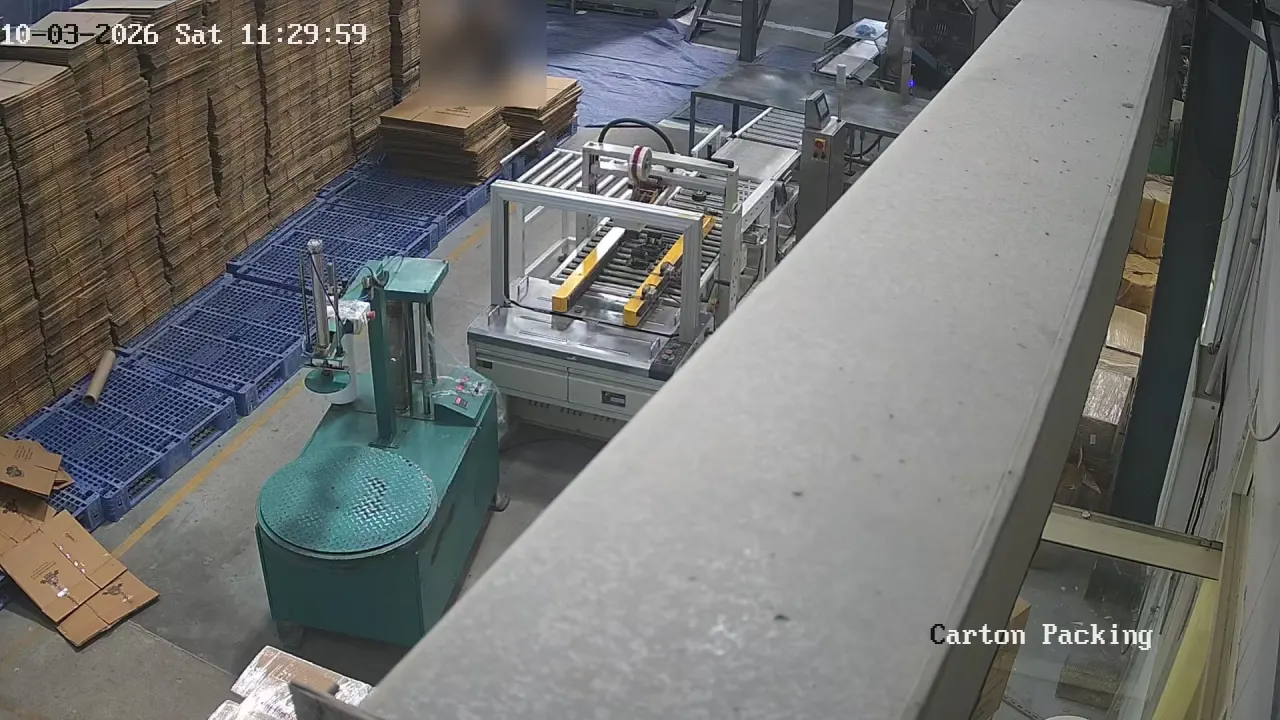
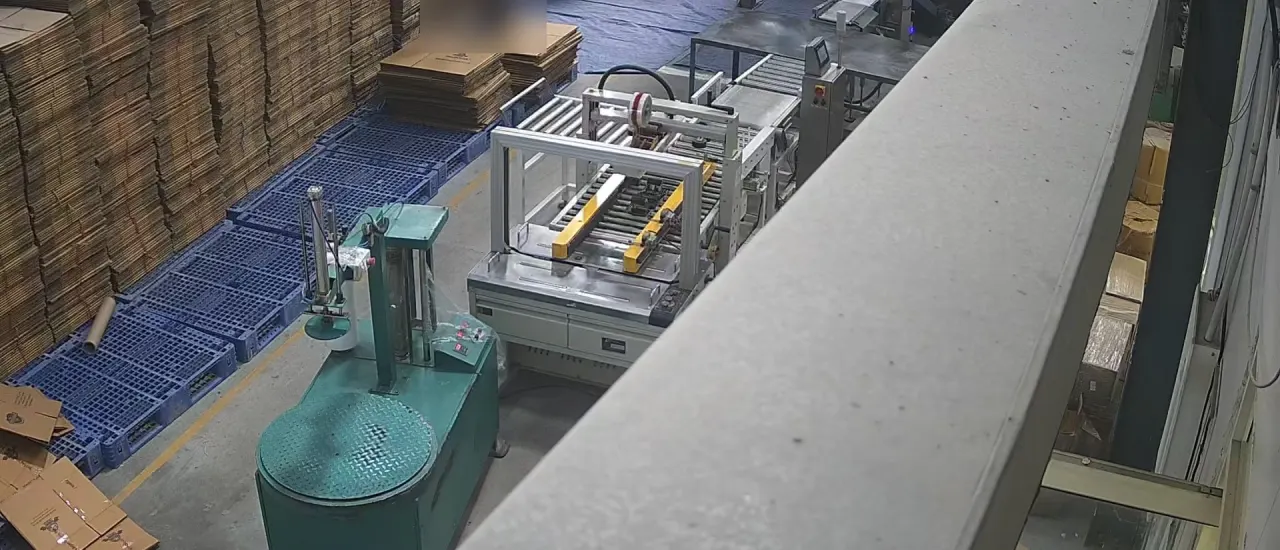
Healthfields: drop client camera names and sack results; trim log and news
- Captions, alt text and file names no longer use client-internal camera names;
  burned-in camera labels and timestamps cropped out of the photos, extra plates blurred
- Sack results removed from the case study, home band, posts and partner pages
- Progress log: removed the on-site install and review-step entries
- News: media kit removed
- check.py now blocks client camera/area names, and sacks outside the home page

diff --git a/case-studies/healthfields/index.html b/case-studies/healthfields/index.html
@@ -4,20 +4,20 @@
 <meta charset="UTF-8">
 <meta name="viewport" content="width=device-width, initial-scale=1.0">
 <title>Healthfields Case Study: Warehouse Counting with Computer Vision | VisorVolt</title>
-<meta name="description" content="Live case study: Healthfields counts cartons and sacks on its existing cameras with VisorVolt, on site with no internet. Cartons -1% on a held-out day.">
+<meta name="description" content="Live case study: Healthfields counts cartons on its existing cameras with VisorVolt, on site with no internet. Cartons within 1% on a held-out day.">
 <link rel="canonical" href="https://visorvolt.ai/case-studies/healthfields/">
 <meta property="og:type" content="article">
 <meta property="og:site_name" content="VisorVolt">
 <meta property="og:url" content="https://visorvolt.ai/case-studies/healthfields/">
 <meta property="og:title" content="Healthfields Case Study: Warehouse Counting with Computer Vision | VisorVolt">
-<meta property="og:description" content="Live case study: Healthfields counts cartons and sacks on its existing cameras with VisorVolt, on site with no internet. Cartons -1% on a held-out day.">
+<meta property="og:description" content="Live case study: Healthfields counts cartons on its existing cameras with VisorVolt, on site with no internet. Cartons within 1% on a held-out day.">
 <meta property="og:image" content="https://visorvolt.ai/assets/og/healthfields.jpg">
 <meta property="og:image:width" content="1200">
 <meta property="og:image:height" content="630">
-<meta property="og:image:alt" content="Healthfields case study: cartons and sacks counted on existing cameras">
+<meta property="og:image:alt" content="Healthfields case study: cartons counted on existing cameras">
 <meta name="twitter:card" content="summary_large_image">
 <meta name="twitter:title" content="Healthfields Case Study: Warehouse Counting with Computer Vision | VisorVolt">
-<meta name="twitter:description" content="Live case study: Healthfields counts cartons and sacks on its existing cameras with VisorVolt, on site with no internet. Cartons -1% on a held-out day.">
+<meta name="twitter:description" content="Live case study: Healthfields counts cartons on its existing cameras with VisorVolt, on site with no internet. Cartons within 1% on a held-out day.">
 <meta name="twitter:image" content="https://visorvolt.ai/assets/og/healthfields.jpg">
 <link rel="icon" type="image/svg+xml" href="../../favicon.svg">
 <link rel="icon" type="image/png" sizes="32x32" href="../../favicon_32.png">
@@ -42,7 +42,7 @@
    "@id": "https://visorvolt.ai/case-studies/healthfields/#article",
    "url": "https://visorvolt.ai/case-studies/healthfields/",
    "mainEntityOfPage": "https://visorvolt.ai/case-studies/healthfields/",
-   "headline": "Healthfields counts cartons and sacks on the cameras it already had",
+   "headline": "Healthfields counts cartons on the cameras it already had",
    "image": [
     "https://visorvolt.ai/assets/og/healthfields.jpg"
    ],
@@ -129,13 +129,13 @@
 <header class="page-head">
   <span class="logo-plate logo-plate--text">Healthfields</span>
   <div class="eyebrow">// Live case study</div>
-  <h1>Healthfields counts cartons and sacks on the cameras it already had</h1>
+  <h1>Healthfields counts cartons on the cameras it already had</h1>
   <p class="page-meta"><span class="live-dot" aria-hidden="true"></span>Live since October 2026 <span aria-hidden="true">&middot;</span> Last updated <time datetime="2026-10-26">26 October 2026</time></p>
   <p class="page-lede">Healthfields makes and sells organic staples, with more than 600 products. At its site in Greater Noida, VisorVolt counts what arrives and what leaves on the existing CCTV cameras, and writes the counts into the warehouse system. It all runs on one computer on site, with no internet needed.</p>
 </header>
 
-<div class="tiles"><div class="tile"><div class="tile-fig">&minus;1%</div><div class="tile-label">Cartons, held-out day</div><p class="tile-def">102 counted against 103 by a person counting each carton, on a day the model never saw.</p></div><div class="tile"><div class="tile-fig">91% / 93%</div><div class="tile-label">Sacks found / counts correct</div><p class="tile-def">On held-out minutes a person counted: 91% of sacks found, and 93% of counts correct.</p></div><div class="tile"><div class="tile-fig">7/7</div><div class="tile-label">Packing counts exact</div><p class="tile-def">Exact on 7 of 7 hand-counted windows at the carton sealer, which handles about 450 items a day.</p></div><div class="tile"><div class="tile-fig">1.00</div><div class="tile-label">Truck arrivals caught</div><p class="tile-def">Share of truck arrivals the bay trigger caught. It was trained from about 40 frames.</p></div></div>
-<p class="small">Held-out means tested on days or minutes the models never saw. How we measured is <a href="#measured">below</a>.</p>
+<div class="tiles"><div class="tile"><div class="tile-fig">&minus;1%</div><div class="tile-label">Cartons, held-out day</div><p class="tile-def">102 counted against 103 by a person counting each carton, on a day the model never saw.</p></div><div class="tile"><div class="tile-fig">7/7</div><div class="tile-label">Packing counts exact</div><p class="tile-def">Exact on 7 of 7 hand-counted windows at the carton sealer, which handles about 450 items a day.</p></div><div class="tile"><div class="tile-fig">1.00</div><div class="tile-label">Truck arrivals caught</div><p class="tile-def">Share of truck arrivals the bay trigger caught. It was trained from about 40 frames.</p></div></div>
+<p class="small">Held-out means tested on days the models never saw. How we measured is <a href="#measured">below</a>.</p>
 
 <dl class="facts">
   <div><dt>Company</dt><dd>Healthfields (Brahhm Arpan Organic Private Limited)</dd></div>
@@ -150,7 +150,7 @@
 
 <section class="page-sec">
   <h2>The challenge</h2>
-  <p>Stock moves through many doors. Raw material arrives by truck in sacks and cartons, finished goods are packed into cartons, and dispatch loads them onto trucks. Counting by hand is slow, and every count has to agree with the barcode scans and the registers.</p>
+  <p>Stock moves through many doors. Goods arrive by truck, finished goods are packed into cartons, and dispatch loads them onto trucks. Counting by hand is slow, and every count has to agree with the barcode scans and the registers.</p>
   <p>Healthfields wanted counts it could trust, from the cameras it already owned, without sending its footage off site.</p>
 </section>
 
@@ -159,33 +159,31 @@
   <ul class="ticks">
     <li><strong>Truck triggers.</strong> A camera spots a truck at the bay and starts the count. The trigger was trained from about 40 frames.</li>
     <li><strong>Carton counter.</strong> A detector built from 40 labelled images, with a tracker, counts each carton loaded at dispatch.</li>
-    <li><strong>Sack counter.</strong> Counts sacks as they come off the truck at unloading.</li>
     <li><strong>Packing counter.</strong> Counts every carton that passes the sealer on the packing line.</li>
     <li><strong>Into the warehouse system.</strong> Counts are written into the warehouse system. Mismatches go to review with the video clip, and camera counts and barcode scans are reconciled every day into one stock position.</li>
   </ul>
   <p>Five services and four nightly reports run on one computer on site, and keep running with no internet.</p>
   <div class="figs">
     <figure>
-      <picture><source type="image/webp" srcset="../../assets/case-studies/healthfields/rm1-640.webp 640w, ../../assets/case-studies/healthfields/rm1-1280.webp 1280w" sizes="(max-width: 900px) 100vw, 33vw"><img src="../../assets/case-studies/healthfields/rm1-1280.jpg" width="1280" height="720" loading="lazy" decoding="async" alt="Cartons arriving on a hand trolley at the Raw Material unloading 1 dock, with a truck behind. Faces are blurred."></picture>
-      <figcaption>Raw Material unloading 1: cartons arriving at the dock.</figcaption>
+      <picture><source type="image/webp" srcset="../../assets/case-studies/healthfields/unloading-640.webp 640w, ../../assets/case-studies/healthfields/unloading-1280.webp 1280w" sizes="(max-width: 900px) 100vw, 33vw"><img src="../../assets/case-studies/healthfields/unloading-1280.jpg" width="1280" height="550" loading="lazy" decoding="async" alt="Cartons arriving on a hand trolley at the unloading dock, with a truck behind. Faces are blurred."></picture>
+      <figcaption>Unloading: cartons arriving at the dock.</figcaption>
     </figure>
     <figure>
-      <picture><source type="image/webp" srcset="../../assets/case-studies/healthfields/csd-640.webp 640w, ../../assets/case-studies/healthfields/csd-1280.webp 1280w" sizes="(max-width: 900px) 100vw, 33vw"><img src="../../assets/case-studies/healthfields/csd-1280.jpg" width="1280" height="614" loading="lazy" decoding="async" alt="Inside a truck at dispatch, a carton carried by a worker is boxed and numbered by the carton counter. Faces and the number plate are blurred."></picture>
-      <figcaption>Loading 1 CSD: the carton counter tracks each carton loaded at dispatch.</figcaption>
+      <picture><source type="image/webp" srcset="../../assets/case-studies/healthfields/dispatch-640.webp 640w, ../../assets/case-studies/healthfields/dispatch-1280.webp 1280w" sizes="(max-width: 900px) 100vw, 33vw"><img src="../../assets/case-studies/healthfields/dispatch-1280.jpg" width="1280" height="530" loading="lazy" decoding="async" alt="Inside a truck at dispatch, a carton carried by a worker is boxed and numbered by the carton counter. Faces and the number plate are blurred."></picture>
+      <figcaption>Dispatch: the carton counter tracks each carton loaded onto the truck.</figcaption>
     </figure>
     <figure>
-      <picture><source type="image/webp" srcset="../../assets/case-studies/healthfields/packing-640.webp 640w, ../../assets/case-studies/healthfields/packing-1280.webp 1280w" sizes="(max-width: 900px) 100vw, 33vw"><img src="../../assets/case-studies/healthfields/packing-1280.jpg" width="1280" height="720" loading="lazy" decoding="async" alt="The carton packing line seen from above: a carton sealer, a stretch wrapper and stacks of flat carton blanks. Faces are blurred."></picture>
-      <figcaption>Carton Packing: every packed carton passes the sealer.</figcaption>
+      <picture><source type="image/webp" srcset="../../assets/case-studies/healthfields/packing-640.webp 640w, ../../assets/case-studies/healthfields/packing-1280.webp 1280w" sizes="(max-width: 900px) 100vw, 33vw"><img src="../../assets/case-studies/healthfields/packing-1280.jpg" width="1280" height="550" loading="lazy" decoding="async" alt="The packing line seen from above: a carton sealer, a stretch wrapper and stacks of flat carton blanks. Faces are blurred."></picture>
+      <figcaption>Packing line: every packed carton passes the sealer.</figcaption>
     </figure>
   </div>
 </section>
 
 <section class="page-sec" id="measured">
   <h2>What we measured</h2>
-  <p>Every number here was measured on days or minutes the models never saw, against a person&rsquo;s own count.</p>
+  <p>Every number here was measured on days the models never saw, against a person&rsquo;s own count.</p>
   <ul class="ticks">
     <li><strong>Cartons, &minus;1%.</strong> A person counted each carton loaded on a dispatch truck on a held-out day. The counter said 102; the person counted 103.</li>
-    <li><strong>Sacks, 91% / 93%.</strong> On held-out minutes a person counted, the counter found 91% of the sacks, and 93% of what it counted was a real sack.</li>
     <li><strong>Packing, 7/7.</strong> Exact on all 7 hand-counted windows at the carton sealer, which handles about 450 items a day.</li>
     <li><strong>Truck arrivals, 1.00.</strong> The bay trigger caught every truck arrival in the test, from about 40 training frames.</li>
   </ul>
@@ -195,7 +193,7 @@
 <section class="page-sec">
   <h2>Progress log</h2>
   <p>The deployment is live and changes every week. Newest first.</p>
-  <ol class="log" reversed><li class="log-entry"><time class="log-date" datetime="2026-10-26">Week of 26 October 2026</time><div class="log-body"><p><span class="log-k">What we did</span> Published this case study with the measurements so far.</p><p><span class="log-k">What&rsquo;s next</span> Check carton counts against the dispatch register, day by day.</p></div></li><li class="log-entry"><time class="log-date" datetime="2026-10-19">Week of 19 October 2026</time><div class="log-body"><p><span class="log-k">What we did</span> Added a review step for raw-material trucks: each truck&rsquo;s count goes to a person, with its video clip, before it reaches the warehouse system.</p><p><span class="log-k">What&rsquo;s next</span> Test the step on the next three trucks that arrive with a goods receipt.</p></div></li><li class="log-entry"><time class="log-date" datetime="2026-10-12">Week of 12 October 2026</time><div class="log-body"><p><span class="log-k">What we did</span> Tested the counters on days and minutes they never saw.</p><p><span class="log-k">What we measured</span> Cartons: 102 counted against 103 by a person (&minus;1%). Sacks: 91% found and 93% of counts correct.</p><p><span class="log-k">What&rsquo;s next</span> Keep the sack counter current as trucks and light change.</p></div></li><li class="log-entry"><time class="log-date" datetime="2026-10-05">Week of 5 October 2026</time><div class="log-body"><p><span class="log-k">What we did</span> Truck-arrival trigger went live at the unloading dock, and the packing counter went live at the carton sealer. A person counted every carton on one dispatch truck, so the carton counter could be tested on a day it never saw.</p><p><span class="log-k">What&rsquo;s next</span> Measure each counter against a person&rsquo;s count.</p></div></li><li class="log-entry"><time class="log-date" datetime="2026-09-28">Week of 28 September 2026</time><div class="log-body"><p><span class="log-k">What we did</span> Installed the computer on site and connected it to the existing cameras. Counted the first unloading truck from recorded footage.</p><p><span class="log-k">What&rsquo;s next</span> Counters for cartons, sacks and packing.</p></div></li></ol>
+  <ol class="log" reversed><li class="log-entry"><time class="log-date" datetime="2026-10-26">Week of 26 October 2026</time><div class="log-body"><p><span class="log-k">What we did</span> Published this case study with the measurements so far.</p><p><span class="log-k">What&rsquo;s next</span> Add the dispatch-register checks to this log as they finish.</p></div></li><li class="log-entry"><time class="log-date" datetime="2026-10-12">Week of 12 October 2026</time><div class="log-body"><p><span class="log-k">What we did</span> Tested the carton counter on a day it never saw.</p><p><span class="log-k">What we measured</span> 102 cartons counted against 103 by a person counting each one (&minus;1%).</p><p><span class="log-k">What&rsquo;s next</span> Check carton counts against the dispatch register, day by day.</p></div></li><li class="log-entry"><time class="log-date" datetime="2026-10-05">Week of 5 October 2026</time><div class="log-body"><p><span class="log-k">What we did</span> Truck-arrival trigger went live at the unloading dock, and the packing counter went live at the carton sealer. A person counted every carton on one dispatch truck, so the carton counter could be tested on a day it never saw.</p><p><span class="log-k">What&rsquo;s next</span> Measure each counter against a person&rsquo;s count.</p></div></li></ol>
 </section>
 
 <section class="page-sec">

diff --git a/_build/pages/healthfields.html b/_build/pages/healthfields.html
@@ -1,13 +1,13 @@
 <header class="page-head">
   {{hf_logo}}
   <div class="eyebrow">// Live case study</div>
-  <h1>Healthfields counts cartons and sacks on the cameras it already had</h1>
+  <h1>Healthfields counts cartons on the cameras it already had</h1>
   <p class="page-meta"><span class="live-dot" aria-hidden="true"></span>Live since {{hf_since}} <span aria-hidden="true">&middot;</span> Last updated {{hf_last}}</p>
   <p class="page-lede">Healthfields makes and sells organic staples, with more than 600 products. At its site in Greater Noida, VisorVolt counts what arrives and what leaves on the existing CCTV cameras, and writes the counts into the warehouse system. It all runs on one computer on site, with no internet needed.</p>
 </header>
 
 {{hf_tiles}}
-<p class="small">Held-out means tested on days or minutes the models never saw. How we measured is <a href="#measured">below</a>.</p>
+<p class="small">Held-out means tested on days the models never saw. How we measured is <a href="#measured">below</a>.</p>
 
 <dl class="facts">
   <div><dt>Company</dt><dd>Healthfields (Brahhm Arpan Organic Private Limited)</dd></div>
@@ -22,7 +22,7 @@
 
 <section class="page-sec">
   <h2>The challenge</h2>
-  <p>Stock moves through many doors. Raw material arrives by truck in sacks and cartons, finished goods are packed into cartons, and dispatch loads them onto trucks. Counting by hand is slow, and every count has to agree with the barcode scans and the registers.</p>
+  <p>Stock moves through many doors. Goods arrive by truck, finished goods are packed into cartons, and dispatch loads them onto trucks. Counting by hand is slow, and every count has to agree with the barcode scans and the registers.</p>
   <p>Healthfields wanted counts it could trust, from the cameras it already owned, without sending its footage off site.</p>
 </section>
 
@@ -31,33 +31,31 @@
   <ul class="ticks">
     <li><strong>Truck triggers.</strong> A camera spots a truck at the bay and starts the count. The trigger was trained from about 40 frames.</li>
     <li><strong>Carton counter.</strong> A detector built from 40 labelled images, with a tracker, counts each carton loaded at dispatch.</li>
-    <li><strong>Sack counter.</strong> Counts sacks as they come off the truck at unloading.</li>
     <li><strong>Packing counter.</strong> Counts every carton that passes the sealer on the packing line.</li>
     <li><strong>Into the warehouse system.</strong> Counts are written into the warehouse system. Mismatches go to review with the video clip, and camera counts and barcode scans are reconciled every day into one stock position.</li>
   </ul>
   <p>Five services and four nightly reports run on one computer on site, and keep running with no internet.</p>
   <div class="figs">
     <figure>
-      <picture><source type="image/webp" srcset="{{url:assets/case-studies/healthfields/rm1-640.webp}} 640w, {{url:assets/case-studies/healthfields/rm1-1280.webp}} 1280w" sizes="(max-width: 900px) 100vw, 33vw"><img src="{{url:assets/case-studies/healthfields/rm1-1280.jpg}}" width="1280" height="720" loading="lazy" decoding="async" alt="Cartons arriving on a hand trolley at the Raw Material unloading 1 dock, with a truck behind. Faces are blurred."></picture>
-      <figcaption>Raw Material unloading 1: cartons arriving at the dock.</figcaption>
+      <picture><source type="image/webp" srcset="{{url:assets/case-studies/healthfields/unloading-640.webp}} 640w, {{url:assets/case-studies/healthfields/unloading-1280.webp}} 1280w" sizes="(max-width: 900px) 100vw, 33vw"><img src="{{url:assets/case-studies/healthfields/unloading-1280.jpg}}" width="1280" height="550" loading="lazy" decoding="async" alt="Cartons arriving on a hand trolley at the unloading dock, with a truck behind. Faces are blurred."></picture>
+      <figcaption>Unloading: cartons arriving at the dock.</figcaption>
     </figure>
     <figure>
-      <picture><source type="image/webp" srcset="{{url:assets/case-studies/healthfields/csd-640.webp}} 640w, {{url:assets/case-studies/healthfields/csd-1280.webp}} 1280w" sizes="(max-width: 900px) 100vw, 33vw"><img src="{{url:assets/case-studies/healthfields/csd-1280.jpg}}" width="1280" height="614" loading="lazy" decoding="async" alt="Inside a truck at dispatch, a carton carried by a worker is boxed and numbered by the carton counter. Faces and the number plate are blurred."></picture>
-      <figcaption>Loading 1 CSD: the carton counter tracks each carton loaded at dispatch.</figcaption>
+      <picture><source type="image/webp" srcset="{{url:assets/case-studies/healthfields/dispatch-640.webp}} 640w, {{url:assets/case-studies/healthfields/dispatch-1280.webp}} 1280w" sizes="(max-width: 900px) 100vw, 33vw"><img src="{{url:assets/case-studies/healthfields/dispatch-1280.jpg}}" width="1280" height="530" loading="lazy" decoding="async" alt="Inside a truck at dispatch, a carton carried by a worker is boxed and numbered by the carton counter. Faces and the number plate are blurred."></picture>
+      <figcaption>Dispatch: the carton counter tracks each carton loaded onto the truck.</figcaption>
     </figure>
     <figure>
-      <picture><source type="image/webp" srcset="{{url:assets/case-studies/healthfields/packing-640.webp}} 640w, {{url:assets/case-studies/healthfields/packing-1280.webp}} 1280w" sizes="(max-width: 900px) 100vw, 33vw"><img src="{{url:assets/case-studies/healthfields/packing-1280.jpg}}" width="1280" height="720" loading="lazy" decoding="async" alt="The carton packing line seen from above: a carton sealer, a stretch wrapper and stacks of flat carton blanks. Faces are blurred."></picture>
-      <figcaption>Carton Packing: every packed carton passes the sealer.</figcaption>
+      <picture><source type="image/webp" srcset="{{url:assets/case-studies/healthfields/packing-640.webp}} 640w, {{url:assets/case-studies/healthfields/packing-1280.webp}} 1280w" sizes="(max-width: 900px) 100vw, 33vw"><img src="{{url:assets/case-studies/healthfields/packing-1280.jpg}}" width="1280" height="550" loading="lazy" decoding="async" alt="The packing line seen from above: a carton sealer, a stretch wrapper and stacks of flat carton blanks. Faces are blurred."></picture>
+      <figcaption>Packing line: every packed carton passes the sealer.</figcaption>
     </figure>
   </div>
 </section>
 
 <section class="page-sec" id="measured">
   <h2>What we measured</h2>
-  <p>Every number here was measured on days or minutes the models never saw, against a person&rsquo;s own count.</p>
+  <p>Every number here was measured on days the models never saw, against a person&rsquo;s own count.</p>
   <ul class="ticks">
     <li><strong>Cartons, &minus;1%.</strong> A person counted each carton loaded on a dispatch truck on a held-out day. The counter said 102; the person counted 103.</li>
-    <li><strong>Sacks, 91% / 93%.</strong> On held-out minutes a person counted, the counter found 91% of the sacks, and 93% of what it counted was a real sack.</li>
     <li><strong>Packing, 7/7.</strong> Exact on all 7 hand-counted windows at the carton sealer, which handles about 450 items a day.</li>
     <li><strong>Truck arrivals, 1.00.</strong> The bay trigger caught every truck arrival in the test, from about 40 training frames.</li>
   </ul>

diff --git a/news/healthfields-live/index.html b/news/healthfields-live/index.html
@@ -4,20 +4,20 @@
 <meta charset="UTF-8">
 <meta name="viewport" content="width=device-width, initial-scale=1.0">
 <title>Healthfields Is Live in Production With VisorVolt | VisorVolt News</title>
-<meta name="description" content="Healthfields counts cartons, sacks and packing with VisorVolt on its existing cameras, on site with no internet. Read the live case study.">
+<meta name="description" content="Healthfields counts cartons at dispatch and on the packing line with VisorVolt, on its existing cameras and with no internet. Read the live case study.">
 <link rel="canonical" href="https://visorvolt.ai/news/healthfields-live/">
 <meta property="og:type" content="article">
 <meta property="og:site_name" content="VisorVolt">
 <meta property="og:url" content="https://visorvolt.ai/news/healthfields-live/">
 <meta property="og:title" content="Healthfields Is Live in Production With VisorVolt | VisorVolt News">
-<meta property="og:description" content="Healthfields counts cartons, sacks and packing with VisorVolt on its existing cameras, on site with no internet. Read the live case study.">
+<meta property="og:description" content="Healthfields counts cartons at dispatch and on the packing line with VisorVolt, on its existing cameras and with no internet. Read the live case study.">
 <meta property="og:image" content="https://visorvolt.ai/assets/og/healthfields.jpg">
 <meta property="og:image:width" content="1200">
 <meta property="og:image:height" content="630">
-<meta property="og:image:alt" content="Healthfields counts cartons and sacks with VisorVolt, live in production">
+<meta property="og:image:alt" content="Healthfields counts cartons with VisorVolt, live in production">
 <meta name="twitter:card" content="summary_large_image">
 <meta name="twitter:title" content="Healthfields Is Live in Production With VisorVolt | VisorVolt News">
-<meta name="twitter:description" content="Healthfields counts cartons, sacks and packing with VisorVolt on its existing cameras, on site with no internet. Read the live case study.">
+<meta name="twitter:description" content="Healthfields counts cartons at dispatch and on the packing line with VisorVolt, on its existing cameras and with no internet. Read the live case study.">
 <meta name="twitter:image" content="https://visorvolt.ai/assets/og/healthfields.jpg">
 <link rel="icon" type="image/svg+xml" href="../../favicon.svg">
 <link rel="icon" type="image/png" sizes="32x32" href="../../favicon_32.png">
@@ -42,7 +42,7 @@
    "@id": "https://visorvolt.ai/news/healthfields-live/#article",
    "url": "https://visorvolt.ai/news/healthfields-live/",
    "mainEntityOfPage": "https://visorvolt.ai/news/healthfields-live/",
-   "headline": "Healthfields counts cartons and sacks with VisorVolt, live in production",
+   "headline": "Healthfields counts cartons with VisorVolt, live in production",
    "image": [
     "https://visorvolt.ai/assets/og/healthfields.jpg"
    ],
@@ -129,12 +129,12 @@
 <article class="post">
 <header class="page-head">
   <div class="eyebrow">// News &middot; <time datetime="2026-10-26">26 October 2026</time></div>
-  <h1>Healthfields counts cartons and sacks with VisorVolt, live in production</h1>
-  <p class="page-lede">Healthfields counts cartons, sacks and packing on its existing cameras, on site with no internet. The case study is kept up to date.</p>
+  <h1>Healthfields counts cartons with VisorVolt, live in production</h1>
+  <p class="page-lede">Healthfields counts cartons at dispatch and on the packing line with its existing cameras, on site with no internet. The case study is kept up to date.</p>
 </header>
 <div class="post-body">
   <p><strong>Redwood City, CA, 26 October 2026.</strong> Healthfields, a maker of organic staples with more than 600 products, is live in production with VisorVolt at its site in Greater Noida, India. VisorVolt counts what arrives and what leaves on the site&rsquo;s existing CCTV cameras and writes the counts into the warehouse system.</p>
-  <p>Measured on days and minutes the models never saw, the carton counter came within 1% of a person&rsquo;s per-carton count (102 against 103), and the sack counter found 91% of sacks with 93% of its counts correct. Counting and review run on one computer on site, with no internet needed.</p>
+  <p>Measured on a day the model never saw, the carton counter came within 1% of a person&rsquo;s per-carton count (102 against 103), and the packing counter was exact on all 7 hand-counted checks. Counting and review run on one computer on site, with no internet needed.</p>
   <p>&ldquo;Healthfields is the proof we wanted: counting on cameras they already had, with no internet, measured on days the models never saw,&rdquo; said Umang Sharma, founder and CEO of VisorVolt.</p>
   <p>The deployment is still changing every week. Follow it in the <a href="../../case-studies/healthfields/">live case study</a>.</p>
   <h2>About Healthfields</h2>

diff --git a/news/index.html b/news/index.html
@@ -60,7 +60,7 @@
     },
     {
      "@type": "NewsArticle",
-     "headline": "Healthfields counts cartons and sacks with VisorVolt, live in production",
+     "headline": "Healthfields counts cartons with VisorVolt, live in production",
      "url": "https://visorvolt.ai/news/healthfields-live/",
      "datePublished": "2026-10-26"
     }
@@ -124,17 +124,7 @@
   <h1>News</h1>
   <p class="page-lede">Announcements from VisorVolt, newest first.</p>
 </header>
-<ol class="news-list"><li class="news-item"><time datetime="2026-10-26">26 October 2026</time><h2><a href="../news/prolifics-partnership/">VisorVolt and Prolifics sign a systems integrator partnership</a></h2><p>Prolifics, a global systems integrator with 2,000+ experts, will deliver VisorVolt vision AI to its clients, across every industry.</p></li><li class="news-item"><time datetime="2026-10-26">26 October 2026</time><h2><a href="../news/zebra-isv-partner/">VisorVolt becomes a Zebra Technologies Registered ISV</a></h2><p>VisorVolt joined Zebra Technologies&rsquo; PartnerConnect program as a Registered ISV, in North America and Asia-Pacific.</p></li><li class="news-item"><time datetime="2026-10-26">26 October 2026</time><h2><a href="../news/healthfields-live/">Healthfields counts cartons and sacks with VisorVolt, live in production</a></h2><p>Healthfields counts cartons, sacks and packing on its existing cameras, on site with no internet. The case study is kept up to date.</p></li></ol>
-<section class="page-sec media-kit">
-  <h2>Media kit</h2>
-  <ul class="link-list">
-    <li><a href="../favicon.svg">VisorVolt mark (SVG)</a></li>
-    <li><a href="../assets/og-image.png">VisorVolt banner (PNG, 1200&times;630)</a></li>
-    <li><a href="../assets/founder.jpg">Umang Sharma, Founder and CEO (photo)</a></li>
-  </ul>
-  <p><strong>Boilerplate.</strong> VisorVolt builds vision AI that learns a new site from 40 images and keeps improving after it ships. Counting and inspection run on the customer&rsquo;s own hardware with no internet, an improvement agent keeps every model current, and a person approves every change. VisorVolt is based in Redwood City, California.</p>
-  <p>Press: <a href="mailto:umang@visorvolt.ai">umang@visorvolt.ai</a></p>
-</section>
+<ol class="news-list"><li class="news-item"><time datetime="2026-10-26">26 October 2026</time><h2><a href="../news/prolifics-partnership/">VisorVolt and Prolifics sign a systems integrator partnership</a></h2><p>Prolifics, a global systems integrator with 2,000+ experts, will deliver VisorVolt vision AI to its clients, across every industry.</p></li><li class="news-item"><time datetime="2026-10-26">26 October 2026</time><h2><a href="../news/zebra-isv-partner/">VisorVolt becomes a Zebra Technologies Registered ISV</a></h2><p>VisorVolt joined Zebra Technologies&rsquo; PartnerConnect program as a Registered ISV, in North America and Asia-Pacific.</p></li><li class="news-item"><time datetime="2026-10-26">26 October 2026</time><h2><a href="../news/healthfields-live/">Healthfields counts cartons with VisorVolt, live in production</a></h2><p>Healthfields counts cartons at dispatch and on the packing line with its existing cameras, on site with no internet. The case study is kept up to date.</p></li></ol>
 
 </div>
 </main>

diff --git a/index.html b/index.html
@@ -299,8 +299,8 @@
   <div class="section-inner">
     <div class="eyebrow"><span class="live-dot" aria-hidden="true"></span>// Live in production</div>
     <h2 id="live-h">At Healthfields, it counts<br><em>on cameras they already had.</em></h2>
-    <p class="section-sub">Cartons, sacks and packing counted on site with no internet, and written into their warehouse system. Measured on days the models never saw.</p>
-    <div class="tiles"><div class="tile"><div class="tile-fig">&minus;1%</div><div class="tile-label">Cartons, held-out day</div><p class="tile-def">102 counted against 103 by a person counting each carton, on a day the model never saw.</p></div><div class="tile"><div class="tile-fig">91% / 93%</div><div class="tile-label">Sacks found / counts correct</div><p class="tile-def">On held-out minutes a person counted: 91% of sacks found, and 93% of counts correct.</p></div><div class="tile"><div class="tile-fig">7/7</div><div class="tile-label">Packing counts exact</div><p class="tile-def">Exact on 7 of 7 hand-counted windows at the carton sealer, which handles about 450 items a day.</p></div></div>
+    <p class="section-sub">Cartons counted at dispatch and on the packing line, on site with no internet, and written into their warehouse system. Measured on days the models never saw.</p>
+    <div class="tiles"><div class="tile"><div class="tile-fig">&minus;1%</div><div class="tile-label">Cartons, held-out day</div><p class="tile-def">102 counted against 103 by a person counting each carton, on a day the model never saw.</p></div><div class="tile"><div class="tile-fig">7/7</div><div class="tile-label">Packing counts exact</div><p class="tile-def">Exact on 7 of 7 hand-counted windows at the carton sealer, which handles about 450 items a day.</p></div><div class="tile"><div class="tile-fig">1.00</div><div class="tile-label">Truck arrivals caught</div><p class="tile-def">Share of truck arrivals the bay trigger caught. It was trained from about 40 frames.</p></div></div>
     <p class="live-foot"><a href="case-studies/healthfields/" class="btn-outline">Read the live case study &rarr;</a>
       <span class="live-upd">Last updated <time datetime="2026-10-26">26 October 2026</time></span></p>
   </div>

diff --git a/_build/pages/news-healthfields.html b/_build/pages/news-healthfields.html
@@ -1,12 +1,12 @@
 <article class="post">
 <header class="page-head">
   <div class="eyebrow">// News &middot; <time datetime="{{iso:healthfields}}">{{date:healthfields}}</time></div>
-  <h1>Healthfields counts cartons and sacks with VisorVolt, live in production</h1>
-  <p class="page-lede">Healthfields counts cartons, sacks and packing on its existing cameras, on site with no internet. The case study is kept up to date.</p>
+  <h1>Healthfields counts cartons with VisorVolt, live in production</h1>
+  <p class="page-lede">Healthfields counts cartons at dispatch and on the packing line with its existing cameras, on site with no internet. The case study is kept up to date.</p>
 </header>
 <div class="post-body">
   <p><strong>Redwood City, CA, {{date:healthfields}}.</strong> Healthfields, a maker of organic staples with more than 600 products, is live in production with VisorVolt at its site in Greater Noida, India. VisorVolt counts what arrives and what leaves on the site&rsquo;s existing CCTV cameras and writes the counts into the warehouse system.</p>
-  <p>Measured on days and minutes the models never saw, the carton counter came within 1% of a person&rsquo;s per-carton count (102 against 103), and the sack counter found 91% of sacks with 93% of its counts correct. Counting and review run on one computer on site, with no internet needed.</p>
+  <p>Measured on a day the model never saw, the carton counter came within 1% of a person&rsquo;s per-carton count (102 against 103), and the packing counter was exact on all 7 hand-counted checks. Counting and review run on one computer on site, with no internet needed.</p>
   <p>&ldquo;Healthfields is the proof we wanted: counting on cameras they already had, with no internet, measured on days the models never saw,&rdquo; said Umang Sharma, founder and CEO of VisorVolt.</p>
   <p>The deployment is still changing every week. Follow it in the <a href="{{url:case-studies/healthfields/}}">live case study</a>.</p>
   <h2>About Healthfields</h2>

diff --git a/_build/pages/news-prolifics.html b/_build/pages/news-prolifics.html
@@ -8,7 +8,7 @@
   <p><strong>Redwood City, CA, {{date:prolifics}}.</strong> VisorVolt today announced a partnership agreement with Prolifics, a global provider of AI services and data and digital engineering with 2,000+ experts in 10 locations. Under the agreement, Prolifics delivers VisorVolt to its clients and connects it to the systems they already run.</p>
   <p>The partnership is not tied to one industry. VisorVolt learns a new site from 40 images, which VisorVolt picks and labels itself, so the same engine can count goods in a warehouse, find assets on a grid, or inspect equipment on a tower. Counting and review run on the client&rsquo;s own hardware with no internet, and an improvement agent keeps each model current after it ships.</p>
   <p>&ldquo;Prolifics brings delivery teams and long client relationships. We bring a platform that learns a new site from 40 images and keeps getting better once it is live,&rdquo; said Umang Sharma, founder and CEO of VisorVolt. &ldquo;Together we can put vision AI into production in any industry, without a labelling project on the client&rsquo;s side.&rdquo;</p>
-  <p>VisorVolt is already live in production at <a href="{{url:case-studies/healthfields/}}">Healthfields</a>, where it counts cartons and sacks on the existing cameras.</p>
+  <p>VisorVolt is already live in production at <a href="{{url:case-studies/healthfields/}}">Healthfields</a>, where it counts cartons on the existing cameras.</p>
   <p>More: <a href="{{url:partners/prolifics/}}">Prolifics and VisorVolt</a>.</p>
   <h2>About Prolifics</h2>
   <p>Prolifics is a global provider of AI services, data engineering and digital engineering, with 2,000+ experts across 10 locations and more than 47 years of delivery for enterprise clients. <a href="https://prolifics.ai/" rel="noopener">prolifics.ai</a></p>

diff --git a/news/prolifics-partnership/index.html b/news/prolifics-partnership/index.html
@@ -132,7 +132,7 @@
   <p><strong>Redwood City, CA, 26 October 2026.</strong> VisorVolt today announced a partnership agreement with Prolifics, a global provider of AI services and data and digital engineering with 2,000+ experts in 10 locations. Under the agreement, Prolifics delivers VisorVolt to its clients and connects it to the systems they already run.</p>
   <p>The partnership is not tied to one industry. VisorVolt learns a new site from 40 images, which VisorVolt picks and labels itself, so the same engine can count goods in a warehouse, find assets on a grid, or inspect equipment on a tower. Counting and review run on the client&rsquo;s own hardware with no internet, and an improvement agent keeps each model current after it ships.</p>
   <p>&ldquo;Prolifics brings delivery teams and long client relationships. We bring a platform that learns a new site from 40 images and keeps getting better once it is live,&rdquo; said Umang Sharma, founder and CEO of VisorVolt. &ldquo;Together we can put vision AI into production in any industry, without a labelling project on the client&rsquo;s side.&rdquo;</p>
-  <p>VisorVolt is already live in production at <a href="../../case-studies/healthfields/">Healthfields</a>, where it counts cartons and sacks on the existing cameras.</p>
+  <p>VisorVolt is already live in production at <a href="../../case-studies/healthfields/">Healthfields</a>, where it counts cartons on the existing cameras.</p>
   <p>More: <a href="../../partners/prolifics/">Prolifics and VisorVolt</a>.</p>
   <h2>About Prolifics</h2>
   <p>Prolifics is a global provider of AI services, data engineering and digital engineering, with 2,000+ experts across 10 locations and more than 47 years of delivery for enterprise clients. <a href="https://prolifics.ai/" rel="noopener">prolifics.ai</a></p>

diff --git a/_build/pages/prolifics.html b/_build/pages/prolifics.html
@@ -16,7 +16,7 @@
   <h2>What it means for you</h2>
   <ul class="ticks">
     <li><strong>One project, one team.</strong> Prolifics&rsquo; delivery teams connect VisorVolt to the systems you already run, such as your warehouse, maintenance or ERP system. We supply the vision platform and the improvement agent that keeps each model current.</li>
-    <li><strong>Any industry.</strong> The same engine learns pallets, sacks, cartons, antennas or defects. There is no separate product per vertical.</li>
+    <li><strong>Any industry.</strong> The same engine learns pallets, cartons, antennas or defects. There is no separate product per vertical.</li>
     <li><strong>No labelling project on your side.</strong> 40 images per site, and we pick the 40 from footage you already record, then label them ourselves.</li>
     <li><strong>Runs on your hardware.</strong> Counting and review run on site with no internet. Retraining happens in our cloud and arrives as a signed update. <a href="{{url:no-internet/}}">How that works</a>.</li>
   </ul>
@@ -34,7 +34,7 @@
 
 <section class="page-sec">
   <h2>Already running in production</h2>
-  <p>At <a href="{{url:case-studies/healthfields/}}">Healthfields</a>, VisorVolt counts cartons, sacks and packing on the existing cameras and writes the counts into the warehouse system. Cartons came within 1% of a person&rsquo;s per-carton count on a day the model never saw.</p>
+  <p>At <a href="{{url:case-studies/healthfields/}}">Healthfields</a>, VisorVolt counts cartons at dispatch and on the packing line with the existing cameras and writes the counts into the warehouse system. Cartons came within 1% of a person&rsquo;s per-carton count on a day the model never saw.</p>
 </section>
 
 <section class="page-sec">

diff --git a/partners/prolifics/index.html b/partners/prolifics/index.html
@@ -131,7 +131,7 @@
   <h2>What it means for you</h2>
   <ul class="ticks">
     <li><strong>One project, one team.</strong> Prolifics&rsquo; delivery teams connect VisorVolt to the systems you already run, such as your warehouse, maintenance or ERP system. We supply the vision platform and the improvement agent that keeps each model current.</li>
-    <li><strong>Any industry.</strong> The same engine learns pallets, sacks, cartons, antennas or defects. There is no separate product per vertical.</li>
+    <li><strong>Any industry.</strong> The same engine learns pallets, cartons, antennas or defects. There is no separate product per vertical.</li>
     <li><strong>No labelling project on your side.</strong> 40 images per site, and we pick the 40 from footage you already record, then label them ourselves.</li>
     <li><strong>Runs on your hardware.</strong> Counting and review run on site with no internet. Retraining happens in our cloud and arrives as a signed update. <a href="../../no-internet/">How that works</a>.</li>
   </ul>
@@ -149,7 +149,7 @@
 
 <section class="page-sec">
   <h2>Already running in production</h2>
-  <p>At <a href="../../case-studies/healthfields/">Healthfields</a>, VisorVolt counts cartons, sacks and packing on the existing cameras and writes the counts into the warehouse system. Cartons came within 1% of a person&rsquo;s per-carton count on a day the model never saw.</p>
+  <p>At <a href="../../case-studies/healthfields/">Healthfields</a>, VisorVolt counts cartons at dispatch and on the packing line with the existing cameras and writes the counts into the warehouse system. Cartons came within 1% of a person&rsquo;s per-carton count on a day the model never saw.</p>
 </section>
 
 <section class="page-sec">

diff --git a/case-studies/index.html b/case-studies/index.html
@@ -105,11 +105,11 @@
   <p class="page-lede">Each case study shows what we deployed, what we measured on days the models never saw, and a dated log of what has changed since.</p>
 </header>
 <a class="case-card" href="../case-studies/healthfields/">
-  <picture><source type="image/webp" srcset="../assets/case-studies/healthfields/csd-640.webp"><img src="../assets/case-studies/healthfields/csd-1280.jpg" width="640" height="307" loading="lazy" alt="The Healthfields carton counter tracking a carton loaded at dispatch. Faces are blurred."></picture>
+  <picture><source type="image/webp" srcset="../assets/case-studies/healthfields/dispatch-640.webp"><img src="../assets/case-studies/healthfields/dispatch-1280.jpg" width="640" height="265" loading="lazy" alt="The Healthfields carton counter tracking a carton loaded at dispatch. Faces are blurred."></picture>
   <span class="case-body">
     <span class="eyebrow"><span class="live-dot" aria-hidden="true"></span>Live &middot; updated <time datetime="2026-10-26">26 October 2026</time></span>
-    <span class="case-title">Healthfields: cartons and sacks counted on existing cameras, with no internet</span>
-    <span class="case-sub">Cartons &minus;1% on a held-out day. Sacks 91% found, 93% correct.</span>
+    <span class="case-title">Healthfields: cartons counted on existing cameras, with no internet</span>
+    <span class="case-sub">Cartons &minus;1% on a held-out day. Packing counts exact on 7 of 7 checks.</span>
   </span>
 </a>
 

diff --git a/_build/pages/case-studies.html b/_build/pages/case-studies.html
@@ -4,10 +4,10 @@
   <p class="page-lede">Each case study shows what we deployed, what we measured on days the models never saw, and a dated log of what has changed since.</p>
 </header>
 <a class="case-card" href="{{url:case-studies/healthfields/}}">
-  <picture><source type="image/webp" srcset="{{url:assets/case-studies/healthfields/csd-640.webp}}"><img src="{{url:assets/case-studies/healthfields/csd-1280.jpg}}" width="640" height="307" loading="lazy" alt="The Healthfields carton counter tracking a carton loaded at dispatch. Faces are blurred."></picture>
+  <picture><source type="image/webp" srcset="{{url:assets/case-studies/healthfields/dispatch-640.webp}}"><img src="{{url:assets/case-studies/healthfields/dispatch-1280.jpg}}" width="640" height="265" loading="lazy" alt="The Healthfields carton counter tracking a carton loaded at dispatch. Faces are blurred."></picture>
   <span class="case-body">
     <span class="eyebrow"><span class="live-dot" aria-hidden="true"></span>Live &middot; updated {{hf_last}}</span>
-    <span class="case-title">Healthfields: cartons and sacks counted on existing cameras, with no internet</span>
-    <span class="case-sub">Cartons &minus;1% on a held-out day. Sacks 91% found, 93% correct.</span>
+    <span class="case-title">Healthfields: cartons counted on existing cameras, with no internet</span>
+    <span class="case-sub">Cartons &minus;1% on a held-out day. Packing counts exact on 7 of 7 checks.</span>
   </span>
 </a>
